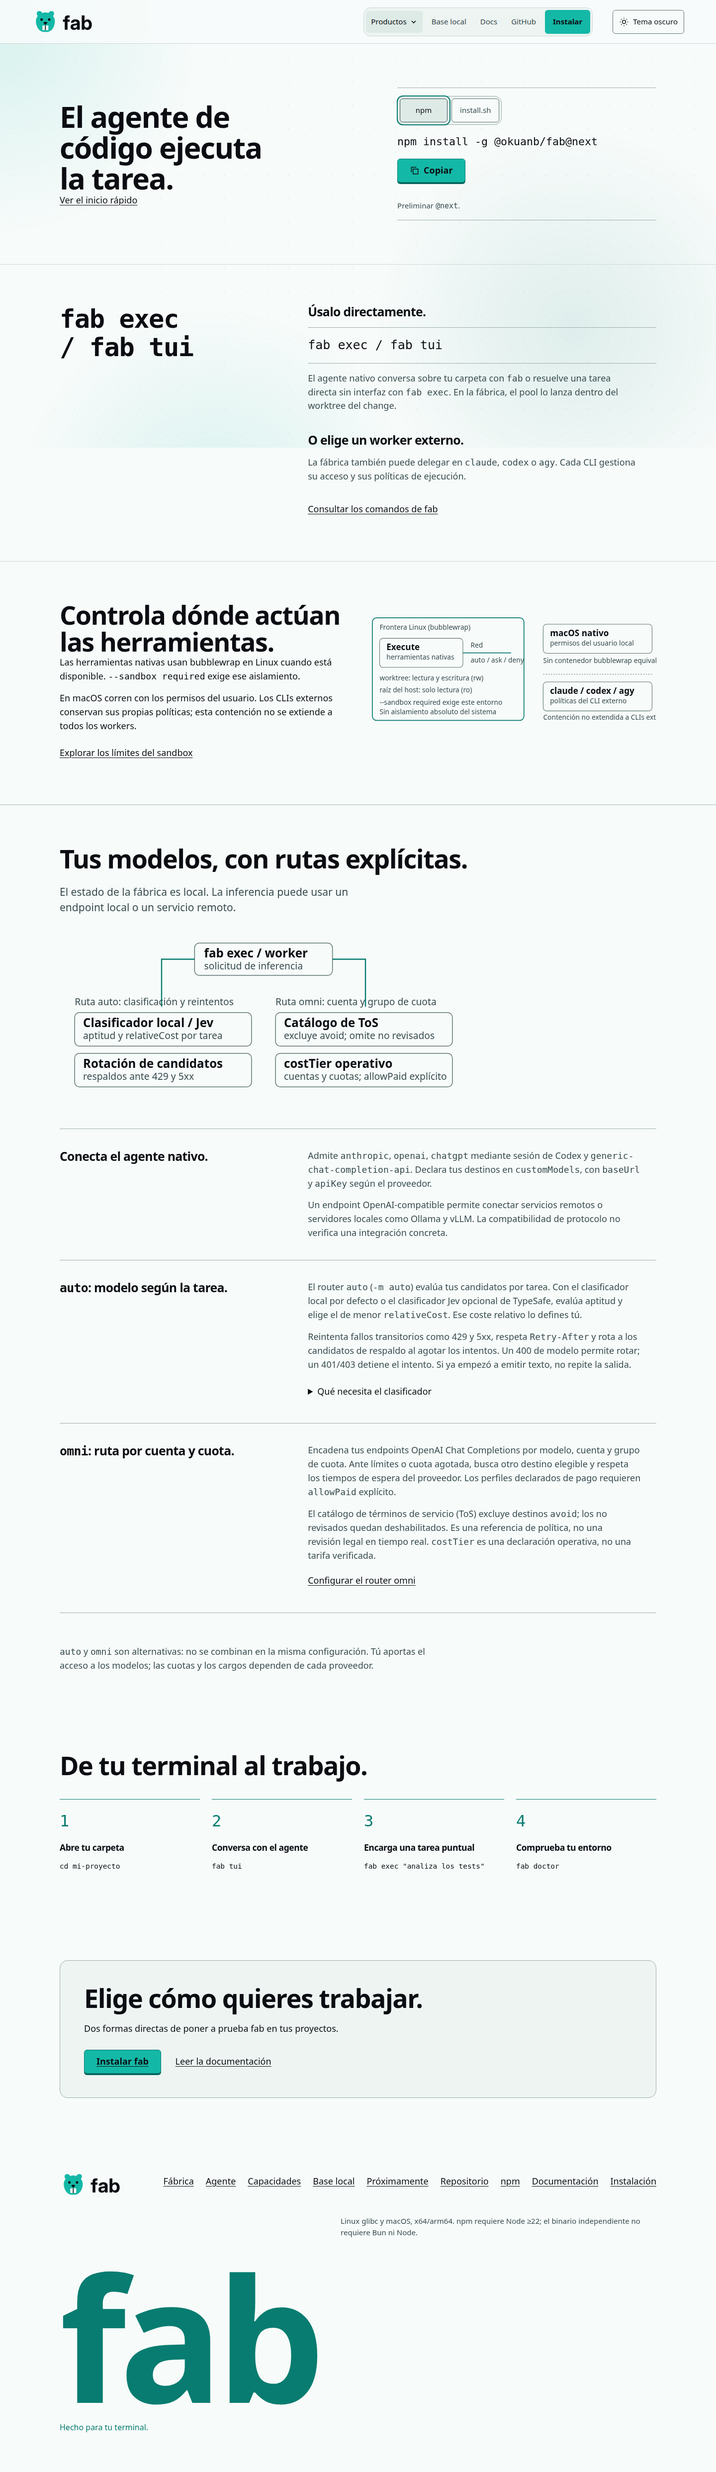
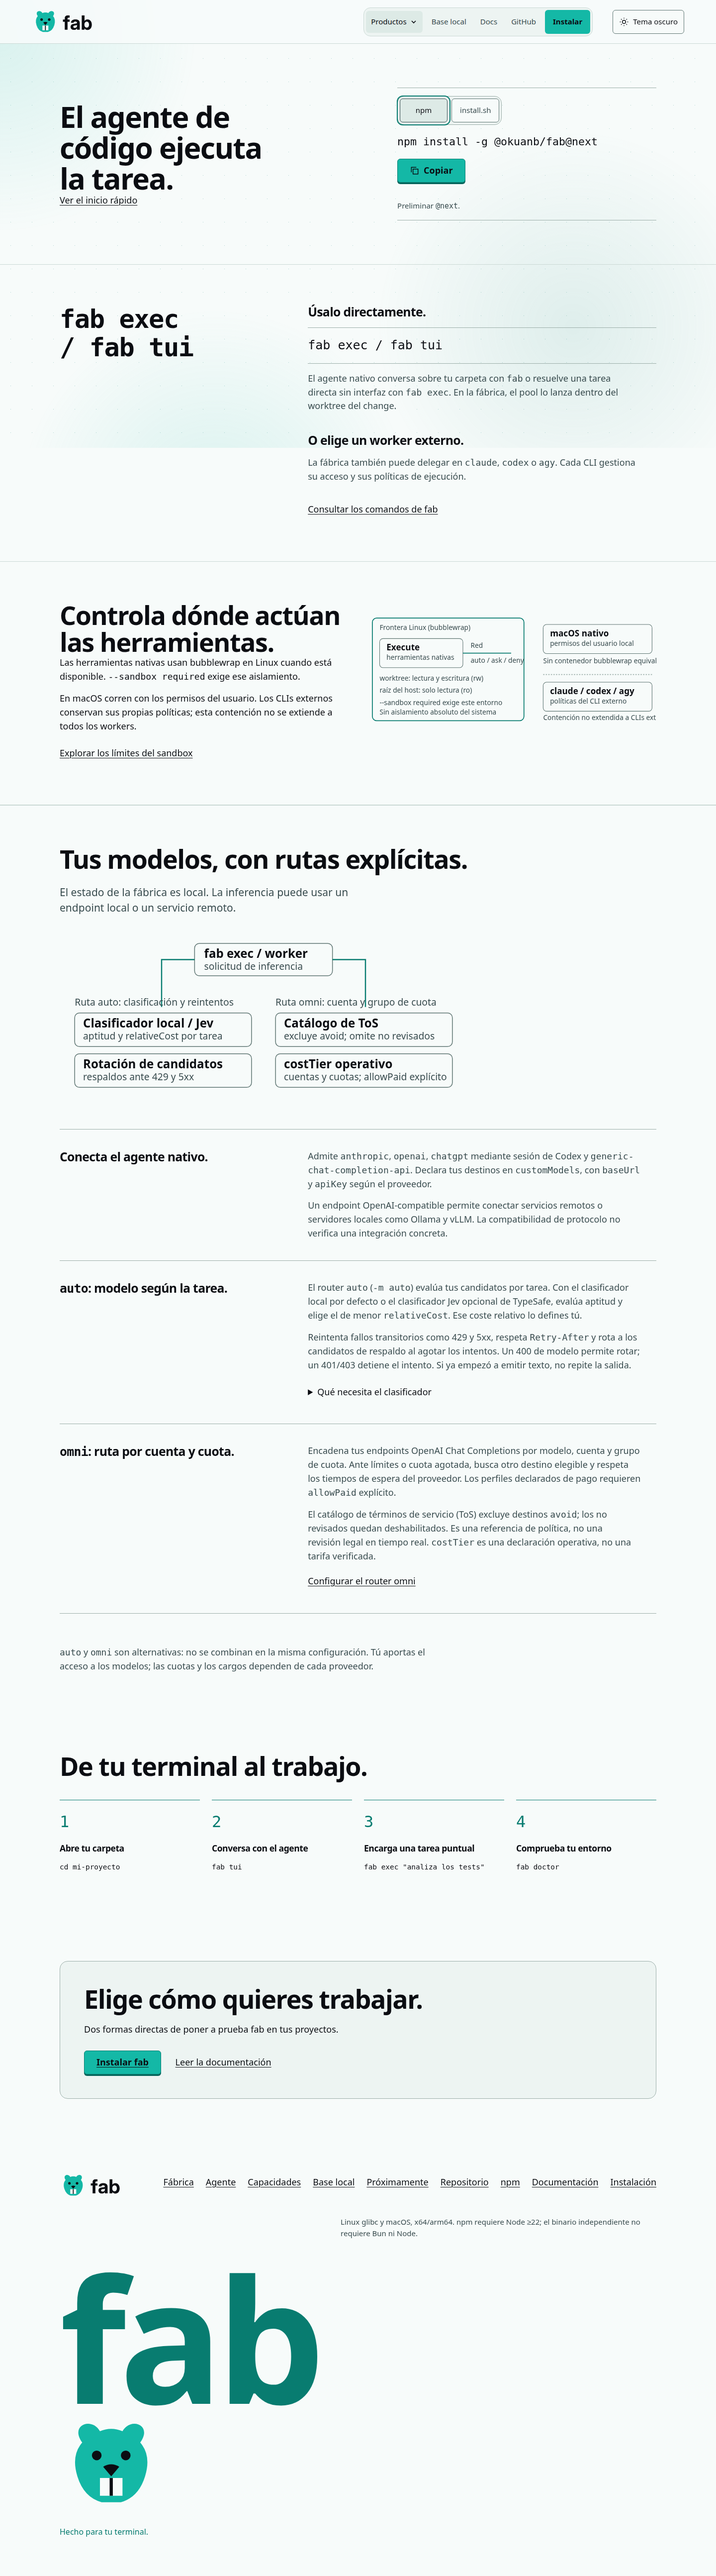
fix(landing): hallazgos de la revisión de agy
Explorador con pasos visibles y lado a lado, paquetes sobre el trazo real
de cada cable, marquee enfocable, sección de estado/Git unificada y castor
en el pie de Fábrica y Agente.

diff --git a/site/modules.js b/site/modules.js
@@ -1,1 +1,1 @@
-(()=>{let c=document.querySelector(".module-explorer");if(!c)return;let l=[...c.querySelectorAll('[role="tab"]')],d=[...c.querySelectorAll("[data-module]")],f=document.querySelector(".module-playback"),p=f.querySelector("[data-module-play]"),b=f.querySelector(".module-state"),u=matchMedia("(prefers-reduced-motion: reduce)"),n=0,r=3,s=!1,y=!1,E,g=!1,h=!1,q=()=>{clearTimeout(E),E=void 0};function A(){d.forEach((e,t)=>{e.hidden=t!==n,e.dataset.step=String(r),e.dataset.playing=String(t===n&&s&&y&&!document.hidden&&!u.matches),e.querySelectorAll("[data-step-label]").forEach((a,o)=>{a.hidden=o!==r})}),p.textContent=s?"Pausar pasos":r===3?"Repetir pasos":"Reanudar pasos",p.disabled=u.matches,b.setAttribute("aria-live",s?"off":"polite"),b.textContent=`${l[n].textContent.trim()}: ${d[n].querySelector(`[data-step-label="${r}"]`).textContent}. Esquema ilustrativo.`}function i(){if(q(),A(),!s||!y||document.hidden||u.matches)return;E=setTimeout(()=>{if(r<3)r++;else if(h&&n<d.length-1)n++,r=0,l.forEach((e,t)=>{e.setAttribute("aria-selected",String(t===n)),e.tabIndex=t===n?0:-1});else s=!1,h=!1;i()},1400)}function S(){h=!1,s=!1,r=3,i()}function m(e,t=!1){if(h=!1,g=!0,n=e,r=3,s=!1,l.forEach((a,o)=>{a.setAttribute("aria-selected",String(o===e)),a.tabIndex=o===e?0:-1}),t)l[e].focus({preventScroll:!0});i()}c.classList.add("is-interactive"),c.querySelector(".module-tabs").hidden=!1,f.hidden=!1,d.forEach((e,t)=>{e.setAttribute("role","tabpanel"),e.setAttribute("aria-labelledby",l[t].id),e.tabIndex=0,e.querySelectorAll(".scenario-controls").forEach((a)=>{a.hidden=!1})}),l.forEach((e,t)=>{e.addEventListener("click",()=>m(t)),e.addEventListener("keydown",(a)=>{let o;if(["ArrowDown","ArrowRight"].includes(a.key))o=(t+1)%l.length;if(["ArrowUp","ArrowLeft"].includes(a.key))o=(t+l.length-1)%l.length;if(a.key==="Home")o=0;if(a.key==="End")o=l.length-1;if(o!==void 0)a.preventDefault(),m(o,!0)})}),p.addEventListener("click",()=>{if(u.matches)return;if(r===3)r=0;s=!s,i()}),f.querySelector("[data-module-next]").addEventListener("click",()=>{s=!1,r=(r+1)%4,i()}),f.querySelector("[data-module-end]").addEventListener("click",S),d.forEach((e)=>e.querySelectorAll("[data-gate], [data-platform]").forEach((t)=>t.addEventListener("click",()=>{let a=t.hasAttribute("data-gate")?"gate":"platform";if(e.dataset[a==="gate"?"result":"platform"]=t.dataset[a],e.querySelectorAll(`[data-${a}]`).forEach((o)=>o.setAttribute("aria-pressed",String(o===t))),a==="gate")e.querySelector(".module-cli pre").textContent=t.dataset.gate==="fail"?"error (invalid_transition): validadores en fail: qa; usa --force para fusionar igualmente":"change 951e7eb3 completado";S()}))),document.querySelectorAll("[data-open-module]").forEach((e)=>e.addEventListener("click",()=>{m(d.findIndex((t)=>t.dataset.module===e.dataset.openModule)),d[n].focus({preventScroll:!0})})),u.addEventListener("change",S),document.addEventListener("visibilitychange",i),new IntersectionObserver((e)=>{if(y=e[0].isIntersecting,y&&!g&&!u.matches)g=!0,h=!0,s=!0,r=0;i()},{threshold:0.1}).observe(c),m(0),g=!1;function v(){let e=document.getElementById(decodeURIComponent(location.hash.slice(1))),t=e?.closest("[data-module]"),a=t?d.indexOf(t):l.indexOf(e);if(a>=0)m(a),d[a].scrollIntoView({block:"nearest"})}window.addEventListener("hashchange",v),v()})();
+(()=>{let c=document.querySelector(".module-explorer");if(!c)return;let l=[...c.querySelectorAll('[role="tab"]')],d=[...c.querySelectorAll("[data-module]")],f=document.querySelector(".module-playback"),p=f.querySelector("[data-module-play]"),b=f.querySelector(".module-state"),u=matchMedia("(prefers-reduced-motion: reduce)"),n=0,r=3,s=!1,y=!1,E,g=!1,h=!1,q=()=>{clearTimeout(E),E=void 0};function A(){d.forEach((e,t)=>{e.hidden=t!==n,e.dataset.step=String(r),e.dataset.playing=String(t===n&&s&&y&&!document.hidden&&!u.matches),e.querySelectorAll("[data-step-label]").forEach((a,o)=>{o===r?a.setAttribute("aria-current","step"):a.removeAttribute("aria-current")})}),p.textContent=s?"Pausar pasos":r===3?"Repetir pasos":"Reanudar pasos",p.disabled=u.matches,b.setAttribute("aria-live",s?"off":"polite"),b.textContent=`${l[n].textContent.trim().replace(/^(\d+)/,"$1 ")}: ${d[n].querySelector(`[data-step-label="${r}"]`).textContent}. Esquema ilustrativo.`}function i(){if(q(),A(),!s||!y||document.hidden||u.matches)return;E=setTimeout(()=>{if(r<3)r++;else if(h&&n<d.length-1)n++,r=0,l.forEach((e,t)=>{e.setAttribute("aria-selected",String(t===n)),e.tabIndex=t===n?0:-1});else s=!1,h=!1;i()},1400)}function S(){h=!1,s=!1,r=3,i()}function m(e,t=!1){if(h=!1,g=!0,n=e,r=3,s=!1,l.forEach((a,o)=>{a.setAttribute("aria-selected",String(o===e)),a.tabIndex=o===e?0:-1}),t)l[e].focus({preventScroll:!0});i()}c.classList.add("is-interactive"),c.querySelector(".module-tabs").hidden=!1,f.hidden=!1,d.forEach((e,t)=>{e.setAttribute("role","tabpanel"),e.setAttribute("aria-labelledby",l[t].id),e.tabIndex=0,e.querySelectorAll(".scenario-controls").forEach((a)=>{a.hidden=!1})}),l.forEach((e,t)=>{e.addEventListener("click",()=>m(t)),e.addEventListener("keydown",(a)=>{let o;if(["ArrowDown","ArrowRight"].includes(a.key))o=(t+1)%l.length;if(["ArrowUp","ArrowLeft"].includes(a.key))o=(t+l.length-1)%l.length;if(a.key==="Home")o=0;if(a.key==="End")o=l.length-1;if(o!==void 0)a.preventDefault(),m(o,!0)})}),p.addEventListener("click",()=>{if(u.matches)return;if(r===3)r=0;s=!s,i()}),f.querySelector("[data-module-next]").addEventListener("click",()=>{s=!1,r=(r+1)%4,i()}),f.querySelector("[data-module-end]").addEventListener("click",S),d.forEach((e)=>e.querySelectorAll("[data-gate], [data-platform]").forEach((t)=>t.addEventListener("click",()=>{let a=t.hasAttribute("data-gate")?"gate":"platform";if(e.dataset[a==="gate"?"result":"platform"]=t.dataset[a],e.querySelectorAll(`[data-${a}]`).forEach((o)=>o.setAttribute("aria-pressed",String(o===t))),a==="gate")e.querySelector(".module-cli pre").textContent=t.dataset.gate==="fail"?"error (invalid_transition): validadores en fail: qa; usa --force para fusionar igualmente":"change 951e7eb3 completado";S()}))),document.querySelectorAll("[data-open-module]").forEach((e)=>e.addEventListener("click",()=>{m(d.findIndex((t)=>t.dataset.module===e.dataset.openModule)),d[n].focus({preventScroll:!0})})),u.addEventListener("change",S),document.addEventListener("visibilitychange",i),new IntersectionObserver((e)=>{if(y=e[0].isIntersecting,y&&!g&&!u.matches)g=!0,h=!0,s=!0,r=0;i()},{threshold:0.1}).observe(c),m(0),g=!1;function v(){let e=document.getElementById(decodeURIComponent(location.hash.slice(1))),t=e?.closest("[data-module]"),a=t?d.indexOf(t):l.indexOf(e);if(a>=0)m(a),d[a].scrollIntoView({block:"nearest"})}window.addEventListener("hashchange",v),v()})();

diff --git a/site/fabrica/index.html b/site/fabrica/index.html
@@ -530,7 +530,7 @@
           <h2 id="factory-title">Estado, revisiones humanas y Git.</h2>
 
         </div>
-        <p class="factory-location">La operas por CLI o TUI en tu máquina. El estado vive en <code>~/.fabrica/fabrica.db</code>; el código, en tu repositorio y sus worktrees. Este sitio explica el producto; la operación ocurre en tu terminal.</p>
+        <p class="factory-location">La operas por CLI o TUI en tu máquina. Este sitio explica el producto; la operación ocurre en tu terminal.</p>
         <ol class="factory-flow" aria-label="Del objetivo a las actividades">
           <li>
 <h3>Workstream</h3>
@@ -570,7 +570,7 @@
 <circle cx="100" cy="35" r="9"/>
 <circle cx="200" cy="65" r="9"/>
 <circle cx="300" cy="95" r="9"/>
-<circle class="mini-packet" cx="45" cy="65" r="4"/>
+<circle class="mini-packet" r="4" style="offset-path:path('M50 65H350')"/>
 </svg>
 
               <h4>Entrada de trabajo</h4>
@@ -583,7 +583,7 @@
 <path d="M55 65H345"/>
 <rect x="125" y="25" width="150" height="80" rx="8"/>
 <path d="m170 65 20 20 40-40"/>
-<circle class="mini-packet" cx="45" cy="65" r="4"/>
+<circle class="mini-packet" r="4" style="offset-path:path('M55 65H345')"/>
 </svg>
 
               <h4>Revisiones humanas</h4>
@@ -596,7 +596,7 @@
 <path d="M40 35H360M110 35V95H315"/>
 <circle cx="110" cy="35" r="8"/>
 <circle cx="230" cy="95" r="8"/>
-<circle class="mini-packet" cx="45" cy="65" r="4"/>
+<circle class="mini-packet" r="4" style="offset-path:path('M40 35H110V95H315')"/>
 </svg>
 
               <h4>Ejecución y ramas Git</h4>
@@ -610,7 +610,7 @@
 <circle cx="200" cy="25" r="9"/>
 <circle cx="200" cy="65" r="9"/>
 <circle cx="200" cy="105" r="9"/>
-<circle class="mini-packet" cx="45" cy="65" r="4"/>
+<circle class="mini-packet" r="4" style="offset-path:path('M40 65H100V25H300V65H360')"/>
 </svg>
 
               <h4>Validación y PR</h4>
@@ -622,7 +622,7 @@
 <svg class="mini-scene" viewBox="0 0 400 130" aria-hidden="true">
 <path d="M40 65H170M230 65H360M185 25V105M215 25V105"/>
 <text x="300" y="45">PASS</text>
-<circle class="mini-packet" cx="45" cy="65" r="4"/>
+<circle class="mini-packet" r="4" style="offset-path:path('M40 65H360')"/>
 </svg>
 
               <h4>Puerta de merge</h4>
@@ -634,7 +634,7 @@
 <svg class="mini-scene" viewBox="0 0 400 130" aria-hidden="true">
 <path d="M100 85A55 45 0 1 1 290 85M290 85V50M290 85H250"/>
 <text x="200" y="72">fab retry</text>
-<circle class="mini-packet" cx="45" cy="65" r="4"/>
+<circle class="mini-packet" r="4" style="offset-path:path('M100 85A55 45 0 1 1 290 85')"/>
 </svg>
 
               <h4>Seguimiento y recuperación</h4>
@@ -715,10 +715,6 @@ change 951e7eb3 cancelado; worktree retirado</code>
         </div>
         <div class="base-local-grid">
           <article class="base-local-card">
-            <h3>Estado y repositorio</h3>
-            <p>SQLite guarda el flujo en <code>~/.fabrica/fabrica.db</code> (configurable con <code>FABRICA_HOME</code>). Los worktrees y ramas pertenecen a tu repositorio Git.</p>
-          </article>
-          <article class="base-local-card">
             <h3>CLI y paneles dedicados</h3>
             <p>
 <code>fab</code> o <code>fab &lt;carpeta&gt;</code> para el agente conversacional, <code>fab exec</code> para tareas sin interfaz y <code>fab tui &lt;slug&gt;</code> para el panel operativo del workstream.</p>
@@ -735,7 +731,7 @@ change 951e7eb3 cancelado; worktree retirado</code>
 <section class="architecture-section" id="arquitectura" aria-labelledby="architecture-title">
       <div class="container">
         <h2 id="architecture-title">El estado y el código, en su sitio.</h2>
-<p class="architecture-copy">SQLite conserva el flujo de la fábrica. Git conserva los cambios. El pool lanza un agente para ejecutar cada actividad.</p>
+<p class="architecture-copy">SQLite local (<code>~/.fabrica/fabrica.db</code>, configurable con <code>FABRICA_HOME</code>) conserva el flujo de la fábrica. Git conserva los cambios en los worktrees y ramas de tu repositorio. El pool lanza un agente para ejecutar cada actividad.</p>
 <details class="architecture-detail">
 <summary>Explorar flujo y arquitectura con Archify</summary>
         <div class="diagram-links">
@@ -842,7 +838,7 @@ change 951e7eb3 cancelado; worktree retirado</code>
       </nav>
       <p>Linux glibc y macOS, x64/arm64. npm requiere Node ≥22; el binario independiente no requiere Bun ni Node.</p>
     </div>
-  <div class="container footer-wordmark" aria-hidden="true">fab<span>Hecho para tu terminal.</span>
+  <div class="container footer-wordmark" aria-hidden="true">fab <svg class="footer-beaver" aria-hidden="true" viewBox="0 0 64 64"><path fill="var(--color-brand,#14B8A6)" d="M14 20C6 9 20 4 25 13Q32 10 39 13C44 4 58 9 50 20Q57 28 53 41Q49 54 38 57H26Q15 54 11 41Q7 28 14 20Z"/><g fill="#0B0D12"><circle cx="23" cy="28" r="3"/><circle cx="41" cy="28" r="3"/><path d="M27 35Q32 32 37 35L32 41Z"/></g><path fill="#F7FBFA" d="M25 42H39V53H25Z"/><path stroke="#0B0D12" stroke-width="2" d="M32 42V53"/></svg><span>Hecho para tu terminal.</span>
 </div>
 </footer>
 </body>

diff --git a/site/pages.css b/site/pages.css
@@ -26,7 +26,7 @@ h1{font-size:clamp(2.6rem,4.1vw,4.5rem);letter-spacing:-.028em}
 .mini-scene text{fill:var(--color-ink);stroke:none;font:14px var(--font-outlier);text-anchor:middle}
 .mini-packet{fill:var(--color-connector);stroke:none;opacity:0;animation:mini-travel 3.5s ease-in-out infinite;animation-play-state:paused}
 [data-scene-active="true"] .mini-packet{animation-play-state:running}
-@keyframes mini-travel{0%{transform:translateX(0);opacity:0}20%{opacity:1}80%{opacity:1}100%{transform:translateX(300px);opacity:0}}
+@keyframes mini-travel{0%{offset-distance:0%;opacity:0}15%{opacity:1}85%{opacity:1}100%{offset-distance:100%;opacity:0}}
 .command-marquee{overflow:hidden;border-block:1px solid var(--color-rule);padding-block:22px}
 .command-track{display:flex;width:max-content;gap:60px;animation:command-scroll 35s linear infinite;animation-play-state:paused}
 .command-track code{font-size:1.05rem;color:var(--color-connector)}
@@ -75,3 +75,8 @@ main>section{background:transparent!important}
 .hero-relation{padding:32px 0 0;width:100%}
 .capability-card h4,.product-card h3,.local-facts h3{overflow-wrap:anywhere;hyphens:auto}
 .footer-beaver{width:.6em;height:.6em;vertical-align:-.04em}.brand-home[aria-current]{text-decoration:none!important}
+
+.module-steps li[hidden]{display:block}
+.module-steps li{padding:8px 12px;border-left:2px solid var(--color-rule-2);color:var(--color-ink-2)}
+.module-steps li[aria-current="step"]{color:var(--color-ink);font-weight:600;border-left-color:var(--color-connector)}
+@media(min-width:1001px){.module-panel:not([hidden]){display:grid;grid-template-columns:minmax(0,1fr) 240px;column-gap:32px;align-items:center}.module-panel>*{grid-column:1/-1}.module-panel>.module-scene{grid-column:1;grid-row:2}.module-panel>.module-steps{grid-column:2;grid-row:2}}

diff --git a/docs/landing/modules.source.js b/docs/landing/modules.source.js
@@ -15,12 +15,12 @@
       panel.hidden = index !== selected;
       panel.dataset.step = String(step);
       panel.dataset.playing = String(index === selected && playing && visible && !document.hidden && !motion.matches);
-      panel.querySelectorAll('[data-step-label]').forEach((label, n) => { label.hidden = n !== step; });
+      panel.querySelectorAll('[data-step-label]').forEach((label, n) => { if (n === step) label.setAttribute('aria-current', 'step'); else label.removeAttribute('aria-current'); });
     });
     play.textContent = playing ? 'Pausar pasos' : step === 3 ? 'Repetir pasos' : 'Reanudar pasos';
     play.disabled = motion.matches;
     status.setAttribute('aria-live', playing ? 'off' : 'polite');
-    status.textContent = `${tabs[selected].textContent.trim()}: ${panels[selected].querySelector(`[data-step-label="${step}"]`).textContent}. Esquema ilustrativo.`;
+    status.textContent = `${tabs[selected].textContent.trim().replace(/^(\d+)/, '$1 ')}: ${panels[selected].querySelector(`[data-step-label="${step}"]`).textContent}. Esquema ilustrativo.`;
   }
   function schedule() {
     stop(); draw();

diff --git a/site/index.html b/site/index.html
@@ -252,7 +252,7 @@
       </div>
 
     </section>
-<section class="command-marquee" aria-label="Comandos de fab" tabindex="0">
+<section class="command-marquee" role="region" aria-label="Comandos de fab. Enfoca para pausar el movimiento" tabindex="0">
 <div class="command-track">
 <code>fab run</code>
 <code>fab exec</code>
@@ -287,7 +287,7 @@
 <text x="70" y="70">Objetivo</text>
 <text x="200" y="70">Worker</text>
 <text x="330" y="70">Revisión</text>
-<circle class="mini-packet" cx="45" cy="65" r="4"/>
+<circle class="mini-packet" r="4" style="offset-path:path('M35 65H365')"/>
 </svg>
 <h3>Fábrica de software</h3>
             </div>
@@ -302,7 +302,7 @@
 <rect x="100" y="30" width="250" height="68" rx="8"/>
 <text x="225" y="57">$ fab exec</text>
 <text x="225" y="81">Tu carpeta · tus herramientas</text>
-<circle class="mini-packet" cx="45" cy="65" r="4"/>
+<circle class="mini-packet" r="4" style="offset-path:path('M45 30V100H350')"/>
 </svg>
 <h3>Agente de código</h3>
             </div>

diff --git a/site/agente/index.html b/site/agente/index.html
@@ -305,7 +305,7 @@
       </nav>
       <p>Linux glibc y macOS, x64/arm64. npm requiere Node ≥22; el binario independiente no requiere Bun ni Node.</p>
     </div>
-  <div class="container footer-wordmark" aria-hidden="true">fab<span>Hecho para tu terminal.</span>
+  <div class="container footer-wordmark" aria-hidden="true">fab <svg class="footer-beaver" aria-hidden="true" viewBox="0 0 64 64"><path fill="var(--color-brand,#14B8A6)" d="M14 20C6 9 20 4 25 13Q32 10 39 13C44 4 58 9 50 20Q57 28 53 41Q49 54 38 57H26Q15 54 11 41Q7 28 14 20Z"/><g fill="#0B0D12"><circle cx="23" cy="28" r="3"/><circle cx="41" cy="28" r="3"/><path d="M27 35Q32 32 37 35L32 41Z"/></g><path fill="#F7FBFA" d="M25 42H39V53H25Z"/><path stroke="#0B0D12" stroke-width="2" d="M32 42V53"/></svg><span>Hecho para tu terminal.</span>
 </div>
 </footer>
 </body>
